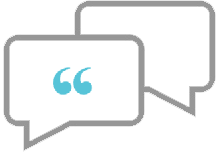
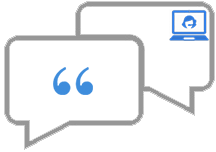
design cleanup

diff --git a/src/app/layout/dashboard/components/default-meeting/default-meeting.component.scss b/src/app/layout/dashboard/components/default-meeting/default-meeting.component.scss
@@ -61,7 +61,7 @@
 }
 
 .date-period-select {
-    border-left: 2px solid #3277d3;
+    border-left: 2px solid #8f5a0a;;
     padding-left: 10px;
     padding-right: 10px;
    // height: 25%;
@@ -74,7 +74,8 @@
 }
 
 .align-center a {
-    color: #3277d3;
+   // color: #8f5a0a;
+   color: #8f5a0a;
     font-weight: bold;
 }
 
@@ -275,12 +276,28 @@
     color:#FFFFFF;
     border-radius:5px 5px 0px 0px;
 }
-.btn.btn-secondary {
-    background:  #e8f0fc;
-     color: #000000;
-   // border-color:  #40a4b6;
-   font-weight: bold;
-    border-radius: 0px 5px 5px 0px;
+.btn-sec {
+
+ background-color: #ffb94b;
+    background-image: -webkit-gradient(linear, left top, left bottom, from(#fddb6f), to(#ffb94b));
+    background-image: -webkit-linear-gradient(top, #fddb6f, #ffb94b);
+    background-image: -moz-linear-gradient(top, #fddb6f, #ffb94b);
+    background-image: -ms-linear-gradient(top, #fddb6f, #ffb94b);
+    background-image: -o-linear-gradient(top, #fddb6f, #ffb94b);
+    background-image: linear-gradient(top, #fddb6f, #ffb94b);
+
+    text-shadow: 0 1px 0 rgba(255, 255, 255, 0.5);
+    -moz-box-shadow: 0 0 1px rgba(0, 0, 0, 0.3), 0 1px 0 rgba(255, 255, 255, 0.3) inset;
+    -webkit-box-shadow: 0 0 1px rgba(0, 0, 0, 0.3), 0 1px 0 rgba(255, 255, 255, 0.3) inset;
+    box-shadow: 0 0 1px rgba(0, 0, 0, 0.3), 0 1px 0 rgba(255, 255, 255, 0.3) inset;
+    border-width: 1px;
+    border-style: solid;
+    border-color: #d69e31 #e3a037 #d5982d #e3a037;
+    cursor: pointer;
+    text-align: center;
+    font: Arial, Helvetica;
+    font-weight: bold;
+    color: #8f5a0a;
 }
 .form-control {
     border-radius: 5px 0px 0px 5px;
@@ -310,13 +327,21 @@ $border-color: #e0e0e0;
 }
 
 .accordion{
-  background: #e8f0fc;
+ // background: #e8f0fc;
+  background-color: #ffb94b;
+    background-image: -webkit-gradient(linear, left top, left bottom, from(#fddb6f), to(#ffb94b));
+    background-image: -webkit-linear-gradient(top, #fddb6f, #ffb94b);
+    background-image: -moz-linear-gradient(top, #fddb6f, #ffb94b);
+    background-image: -ms-linear-gradient(top, #fddb6f, #ffb94b);
+    background-image: -o-linear-gradient(top, #fddb6f, #ffb94b);
+    background-image: linear-gradient(top, #fddb6f, #ffb94b);
   list-style-type: none;
   border: 1px solid $border-color;
   width: 100%;
   text-align: center;
   padding-right: 35px;
   font-weight: bold;
+  color:#8f5a0a;
 }
 
 .accordion-item{

diff --git a/src/app/layout/manage-team/manage-team/manage-team.component.html b/src/app/layout/manage-team/manage-team/manage-team.component.html
@@ -14,9 +14,9 @@
     <h4>
         <i class="fa fa-users" aria-hidden="true"></i>&nbsp;Teams</h4>
     <hr>
-    <ul *ngFor="let userPermission of userPermissionList">
+    <ul *ngFor="let userPermission of userPermissionList; let teamCount = index">
         <li>
-            <label (click)="displayTeamDetails(userPermission.teamId.teamId , userPermission.teamId.teamName)">{{userPermission.teamId.teamName}}</label>
+            <label (click)="displayTeamDetails(userPermission.teamId.teamId , userPermission.teamId.teamName)">{{teamCount+1}})&nbsp;{{userPermission.teamId.teamName}}</label>
         </li>
     </ul>
     <div style="text-align:center;">
@@ -47,7 +47,7 @@
                 </div>
             </div>
             <div class="modal-footer popFooter">
-                    <button type="button" class="btn btn-secondary btn-border-radius" (click)="addTeam(newTeamName)">Add Team</button>
+                    <button type="button" class="btn btn-sec" (click)="addTeam(newTeamName)">Add Team</button>
                 <button type="button" class="btn btn-danger  btn-border-radius" (click)="closeTeamPopup('addNewTeam')">Close</button>
             </div>
         </app-custom-modal>
@@ -58,7 +58,7 @@
     <hr>
     <div class="row">
         <div class="member-block">
-            <h4 style="font-weight:bold; color:#2980b9; ">{{selectedTeamName}}
+            <h4 style="font-weight:bold; color:#3277d3; ">{{selectedTeamName}}
                 <span>&nbsp;[{{userPermissionMemList.length}} Members]</span>
             </h4>
             <input type="text" placeholder="Type Name Here..." class="col-md-11 search-member" />

diff --git a/src/app/layout/dashboard/dashboard.component.html b/src/app/layout/dashboard/dashboard.component.html
@@ -36,7 +36,7 @@
                                 </div>
                             </div>
                             <div class="modal-footer popFooter">
-                                    <button type="button" class="btn btn-secondary btn-border-radius" (click)="createGroup(createGroupsVal)">Add Group</button>
+                                    <button type="button" class="btn-sec btn" (click)="createGroup(createGroupsVal)">Add Group</button>
                                 <button type="button" class="btn btn-danger  btn-border-radius" (click)="closeGroupPopup('addCreateGroup')">Close</button>
                             </div>
                         </app-custom-modal>
@@ -70,8 +70,8 @@
                                 </div>
                             </div>
                             <div class="modal-footer popFooter">
-                                    <button type="button" class="btn btn-secondary btn-border-radius" (click)="broadcastMessages(broadcastMessage)">Broadcast Message</button>
-                                <button type="button" class="btn btn-danger  btn-border-radius" (click)="closeBroadcastPopup('addBroadcastMsg')">Close</button>
+                                    <button type="button" class="btn-sec btn" (click)="broadcastMessages(broadcastMessage)">Broadcast Message</button>
+                                <button type="button" class="btn btn-danger" (click)="closeBroadcastPopup('addBroadcastMsg')">Close</button>
                             </div>
                         </app-custom-modal>
                     </div>

diff --git a/src/app/layout/past-mettings/past-meetings/past-meetings.component.scss b/src/app/layout/past-mettings/past-meetings/past-meetings.component.scss
@@ -52,7 +52,7 @@ tr:nth-child(even) {
     cursor: pointer;
 }
 .download-file{
-    color: #fd7e14;
+    color: #f7a21b;
     font-size: 18px;
     cursor: pointer;
 }
@@ -64,4 +64,23 @@ tr:nth-child(even) {
 a{
     color: #ffffff;
     cursor: pointer;
+}
+.btn-sec {
+    background-color: #ffb94b;
+    background-image: -webkit-gradient(linear, left top, left bottom, from(#fddb6f), to(#ffb94b));
+    background-image: -webkit-linear-gradient(top, #fddb6f, #ffb94b);
+    background-image: -moz-linear-gradient(top, #fddb6f, #ffb94b);
+    background-image: -ms-linear-gradient(top, #fddb6f, #ffb94b);
+    background-image: -o-linear-gradient(top, #fddb6f, #ffb94b);
+    background-image: linear-gradient(top, #fddb6f, #ffb94b);
+    text-shadow: 0 1px 0 rgba(255, 255, 255, 0.5);
+    -moz-box-shadow: 0 0 1px rgba(0, 0, 0, 0.3), 0 1px 0 rgba(255, 255, 255, 0.3) inset;
+    -webkit-box-shadow: 0 0 1px rgba(0, 0, 0, 0.3), 0 1px 0 rgba(255, 255, 255, 0.3) inset;
+    box-shadow: 0 0 1px rgba(0, 0, 0, 0.3), 0 1px 0 rgba(255, 255, 255, 0.3) inset;
+    border-width: 1px;
+    border-style: solid;
+    border-color: #d69e31 #e3a037 #d5982d #e3a037;
+    cursor: pointer;
+    font: bold 15px Arial, Helvetica;
+    color: #8f5a0a;
 }

diff --git a/src/app/layout/dashboard/components/schedule-meeting/schedule-meeting.component.scss b/src/app/layout/dashboard/components/schedule-meeting/schedule-meeting.component.scss
@@ -74,4 +74,25 @@
     .btn-border-radius{
         border-radius: 5px;
     }
-    
+.btn-cancel{
+
+color: rgb(248, 87, 87);
+font-weight: bold;
+background-color: rgb(248, 87, 87);
+background-image: -webkit-gradient(linear, left top, left bottom, from(rgb(253, 78, 78)), to(rgb(248, 87, 87)));
+background-image: -webkit-linear-gradient(top, rgb(253, 78, 78), rgb(248, 87, 87));
+background-image: -moz-linear-gradient(top, rgb(253, 78, 78), rgb(248, 87, 87));
+background-image: -ms-linear-gradient(top, rgb(253, 78, 78), rgb(248, 87, 87));
+background-image: -o-linear-gradient(top, rgb(253, 78, 78), rgb(248, 87, 87));
+background-image: linear-gradient(top, rgb(253, 78, 78), rgb(248, 87, 87));
+  -moz-box-shadow: 0 0 1px rgba(0, 0, 0, 0.3), 0 1px 0 rgba(255, 255, 255, 0.3) inset;
+  -webkit-box-shadow: 0 0 1px rgba(0, 0, 0, 0.3), 0 1px 0 rgba(255, 255, 255, 0.3) inset;
+  box-shadow: 0 0 1px rgba(0, 0, 0, 0.3), 0 1px 0 rgba(255, 255, 255, 0.3) inset;
+  border-width: 1px;
+  border-style: solid;
+  border-color: rgb(218, 10, 10);
+  cursor: pointer;
+  text-align: center;
+  font: Arial, Helvetica;
+  color: rgb(248, 241, 241);
+}    

diff --git a/src/app/layout/dashboard/dashboard.component.scss b/src/app/layout/dashboard/dashboard.component.scss
@@ -14,3 +14,22 @@
 }
 }
 
+.btn-sec {
+    background-color: #ffb94b;
+    background-image: -webkit-gradient(linear, left top, left bottom, from(#fddb6f), to(#ffb94b));
+    background-image: -webkit-linear-gradient(top, #fddb6f, #ffb94b);
+    background-image: -moz-linear-gradient(top, #fddb6f, #ffb94b);
+    background-image: -ms-linear-gradient(top, #fddb6f, #ffb94b);
+    background-image: -o-linear-gradient(top, #fddb6f, #ffb94b);
+    background-image: linear-gradient(top, #fddb6f, #ffb94b);
+    text-shadow: 0 1px 0 rgba(255, 255, 255, 0.5);
+    -moz-box-shadow: 0 0 1px rgba(0, 0, 0, 0.3), 0 1px 0 rgba(255, 255, 255, 0.3) inset;
+    -webkit-box-shadow: 0 0 1px rgba(0, 0, 0, 0.3), 0 1px 0 rgba(255, 255, 255, 0.3) inset;
+    box-shadow: 0 0 1px rgba(0, 0, 0, 0.3), 0 1px 0 rgba(255, 255, 255, 0.3) inset;
+    border-width: 1px;
+    border-style: solid;
+    border-color: #d69e31 #e3a037 #d5982d #e3a037;
+    cursor: pointer;
+    font: bold 15px Arial, Helvetica;
+    color: #8f5a0a;
+}

diff --git a/src/app/services/urlConstants.ts b/src/app/services/urlConstants.ts
@@ -1,4 +1,4 @@
-//  export const baseUrl = 'http://localhost:8081/communicatorV2/';
-export const baseUrl = 'http://192.168.0.106:8081/communicatorV2/';
+  export const baseUrl = 'http://localhost:8081/communicatorV2/';
+//export const baseUrl = 'http://192.168.0.106:8081/communicatorV2/';
 // export const baseUrl = 'http://192.168.0.104:8081/communicatorV2/';
[1 lines of base64/hex data omitted]

diff --git a/src/app/layout/dashboard/components/default-chat/default-chat.component.html b/src/app/layout/dashboard/components/default-chat/default-chat.component.html
@@ -1,7 +1,7 @@
 <div class="card card-default">
     <div style="text-align: center;width:100%;height:99vh;padding-top:30%;">
         <h4>Hello {{loggedInUser.name}}    {{loggedInUser.lastName}}</h4>
-        <img src="assets/images/chat_icon1.png" alt="Responsive image" class="img-fluid" />
+        <img src="assets/images/chat_icon.png" alt="Responsive image" class="img-fluid" />
         <h6 class="label-h6">Click on a member's name
             <br>and start a new conversation</h6>
     </div>

diff --git a/src/app/layout/dashboard/components/default-meeting/default-meeting.component.html b/src/app/layout/dashboard/components/default-meeting/default-meeting.component.html
@@ -7,7 +7,7 @@
                 <h6 class="style-links">Your Schedule of upcoming Meetings</h6>
             </div>
             <div class="col-md-4">
-                <a href="javascript:void(0)" (click)="switchRoute()" class="btn btn-secondary pull-right" type="button">Schedule</a>
+                <a href="javascript:void(0)" (click)="switchRoute()" class="btn btn-sec pull-right" type="button">Schedule</a>
             </div>
         </div>
     </div>

diff --git a/src/app/layout/dashboard/components/schedule-meeting/schedule-meeting.component.html b/src/app/layout/dashboard/components/schedule-meeting/schedule-meeting.component.html
@@ -7,7 +7,7 @@
                 <h6 class="style-links">{{currentDate | date:'fullDate'}}</h6>
             </div>
             <div class="col-md-4">
-                <button class="btn btn-danger pull-right" type="button" (click)="switchRoute()">Cancel</button>
+                <button class="btn btn-cancel pull-right" type="button" (click)="switchRoute()">Cancel</button>
             </div>
         </div>
     </div>

diff --git a/src/app/layout/dashboard/components/custom-modal/custom-modal.component.scss b/src/app/layout/dashboard/components/custom-modal/custom-modal.component.scss
@@ -1,13 +1,13 @@
 .popHeaderMeeting {
 	padding: 10px;
-    background-color: #eaf3f8;
-    border-bottom : 1px solid  #77797a;
+   background-image: url("/assets/images/popupBg.png");
+   color: #ffffff;
 }
 .popHeaderMeeting p{
     font-size: 12px; 
 }
 .btn.btn-secondary {
-    background:  #2980b9;
+    background: #3277d3;
     /* color: #187bd0; */
     border-color:  #75b3dd;
     border-radius: 0px 5px 5px 0px;

diff --git a/src/app/layout/components/header/header.component.scss b/src/app/layout/components/header/header.component.scss
@@ -102,7 +102,6 @@
             &:active,
             &:focus {
                 color: #ffffff;
-                font-weight: bold;
                 text-decoration: none;
                 background-color: transparent;
             }
